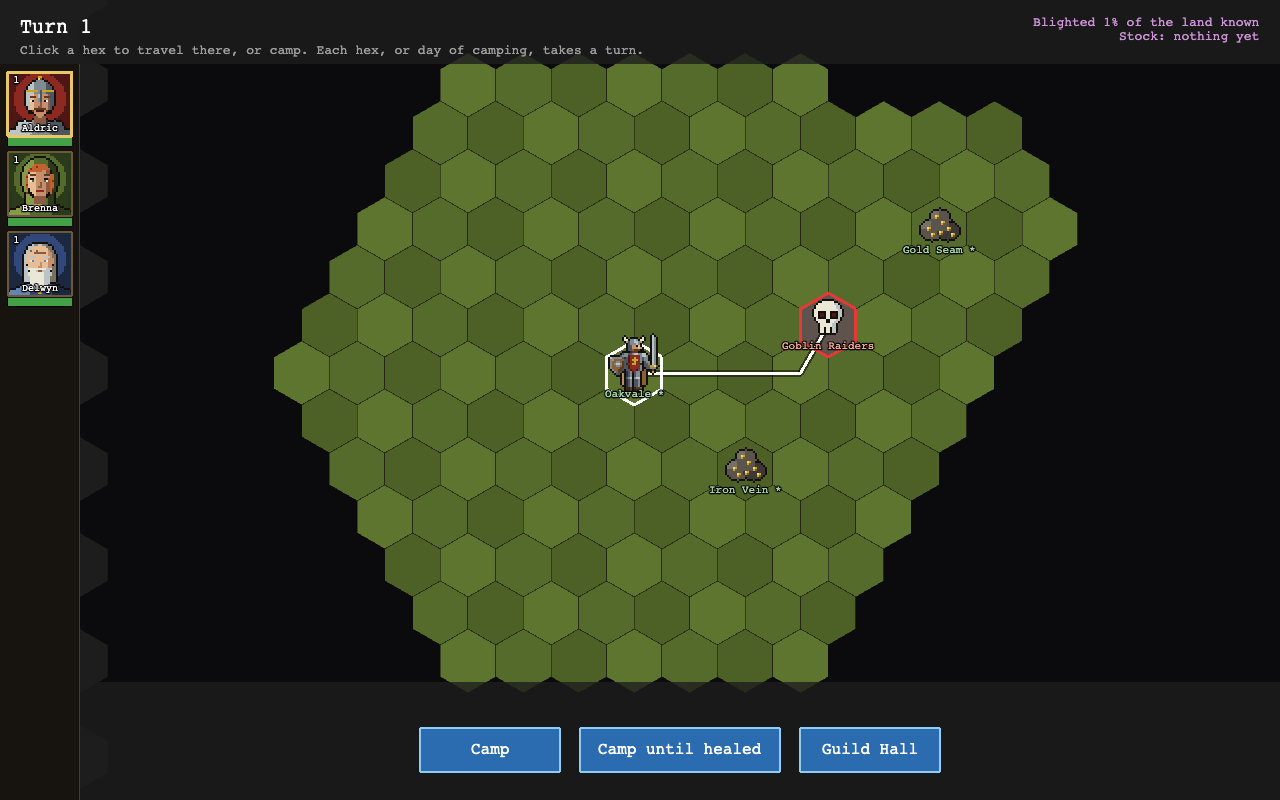
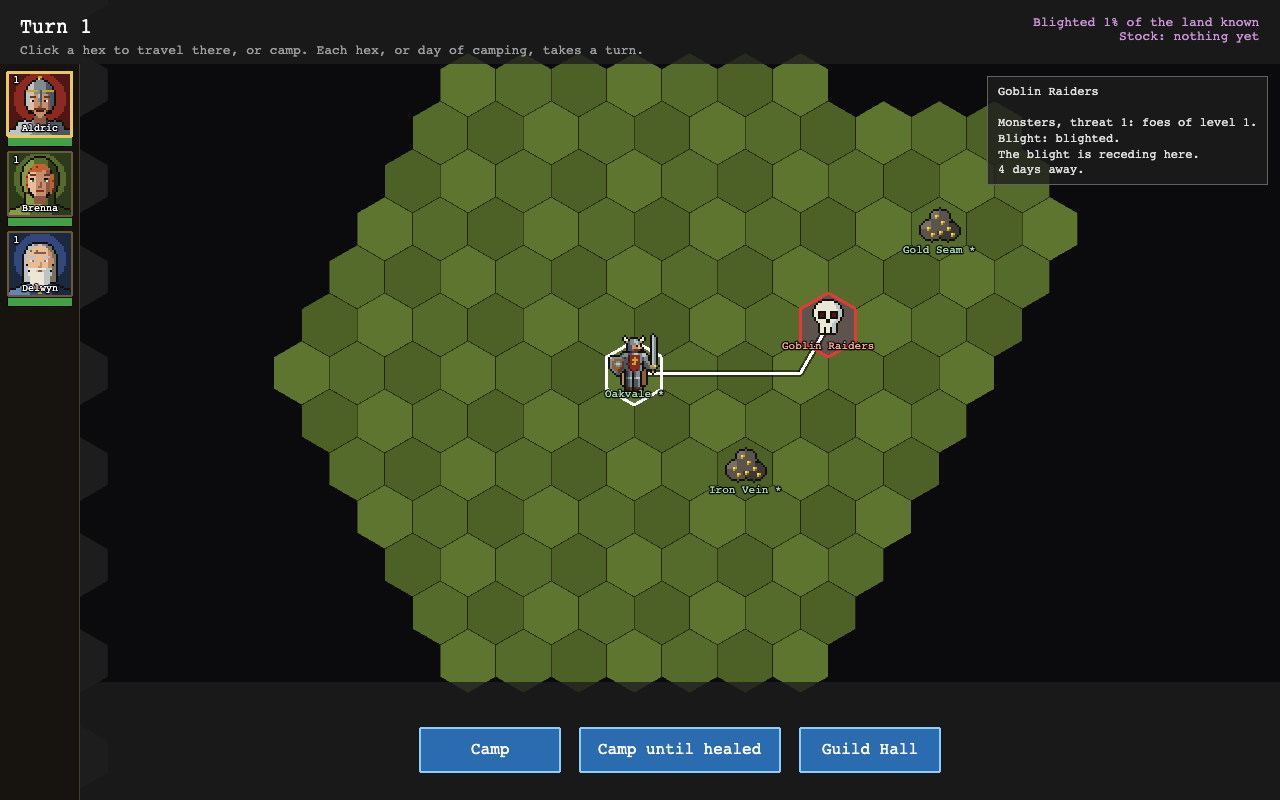
Show what is known of the hovered hex in an info panel on the world map

Changed region(s): [[0.75, 0.0938, 0.9375, 0.25], [0.9375, 0.125, 0.9688, 0.1562]]

diff --git a/src/scenes/WorldScene.ts b/src/scenes/WorldScene.ts
@@ -31,6 +31,7 @@ import { UnitFigure } from './UnitFigure.ts'
 import { gearLayers, SPRITE_ATLAS, spriteAnim, spriteFrame } from './unitLook.ts'
 import { HEADER_BOTTOM, PARTY_PANEL_W, portraitClick } from './partyPanel.ts'
 import { describeWorldEvent, describeWorldEvents } from './worldEvents.ts'
+import { hexInfo } from './hexInfo.ts'
 
 interface WorldData {
   game?: GameState
@@ -94,6 +95,10 @@ const BUTTON_H = 44
 const BUTTON_GAP = 20
 /** Wide enough for "Camp until healed", "Build Watchtower" and "Build Outpost". */
 const WIDE_BUTTON_W = 200
+/** The info panel on the hovered hex, at the view's top right. */
+const INFO_W = 280
+const INFO_PAD = 10
+const INFO_MARGIN = 12
 
 export class WorldScene extends Phaser.Scene {
   private gameState!: GameState
@@ -131,6 +136,9 @@ export class WorldScene extends Phaser.Scene {
   private outpostButton!: Phaser.GameObjects.Container
   /** Shown at Oakvale, beside the camp buttons: opens the guild hall. */
   private hallButton!: Phaser.GameObjects.Container
+  /** What the player knows of the hovered hex (`hexInfo`), hidden while no hex is hovered. */
+  private infoBox!: Phaser.GameObjects.Rectangle
+  private infoText!: Phaser.GameObjects.Text
 
   /**
    * The blight's tint and the front line, drawn in
@@ -207,6 +215,14 @@ export class WorldScene extends Phaser.Scene {
     this.messageText = this.add
       .text(0, 0, '', { fontFamily: 'monospace', fontSize: '15px', color: '#cfd8dc' })
       .setOrigin(0.5)
+    this.infoBox = this.add.rectangle(0, 0, INFO_W, 0, BAR_COLOR, BAR_ALPHA).setOrigin(0).setStrokeStyle(1, 0x616161)
+    this.infoText = this.add.text(0, 0, '', {
+      fontFamily: 'monospace',
+      fontSize: '12px',
+      color: '#e0e0e0',
+      lineSpacing: 3,
+      wordWrap: { width: INFO_W - 2 * INFO_PAD },
+    })
 
     this.buttons = [
       this.createButton('Scout', () => this.onLinger('scout')),
@@ -292,6 +308,7 @@ export class WorldScene extends Phaser.Scene {
       message: this.messageText.text,
       outcome: this.outcomeText.visible ? this.outcomeText.text : '',
       visible: [...this.visible].sort((a, b) => a - b),
+      info: this.infoText.visible ? this.infoText.text : '',
       buttons: {
         scout,
         wait,
@@ -522,6 +539,8 @@ export class WorldScene extends Phaser.Scene {
     const messageY = buttonY - BUTTON_H / 2 - 26
     this.messageText.setPosition(centreX, messageY)
     this.statusText.setPosition(width - 20, 16)
+    this.infoBox.setPosition(width - INFO_MARGIN - INFO_W, HEADER_BOTTOM + INFO_MARGIN)
+    this.infoText.setPosition(this.infoBox.x + INFO_PAD, this.infoBox.y + INFO_PAD)
     this.outcomeShade.setSize(width, height)
     const middleY = height / 2
     this.outcomeText.setPosition(centreX, middleY - 40)
@@ -624,8 +643,9 @@ export class WorldScene extends Phaser.Scene {
     if (!same) this.refreshHover()
   }
 
-  /** Draws the route a click on the hovered hex would walk, red-ringed where it ends among monsters. */
+  /** Draws the route a click on the hovered hex would walk, red-ringed where it ends among monsters, and tells of the hex. */
   private refreshHover(): void {
+    this.refreshInfo()
     const g = this.hoverMarks.clear()
     const route = this.hovered && !this.walking ? routeTo(this.world, this.hovered) : null
     if (!route) {
@@ -645,6 +665,17 @@ export class WorldScene extends Phaser.Scene {
     g.lineStyle(7, ROUTE_EDGE, 0.5).strokePoints(points, false)
     g.lineStyle(3, ROUTE_COLOR, 1).strokePoints(points, false)
     g.lineStyle(3, toMonsters ? MONSTERS_OUTLINE : ROUTE_COLOR, 1).strokePoints(this.hexPolygon(to), true)
+  }
+
+  /** The info panel: what the player knows of the hovered hex. */
+  private refreshInfo(): void {
+    const shown = this.hovered !== null && !this.outcomeShade.visible
+    this.infoBox.setVisible(shown)
+    this.infoText.setVisible(shown)
+    if (!this.hovered || !shown) return
+    const { title, lines } = hexInfo(this.world, this.gameState.party, this.visible, this.hovered)
+    this.infoText.setText([title, '', ...lines].join('\n'))
+    this.infoBox.setSize(INFO_W, this.infoText.height + 2 * INFO_PAD)
   }
 
   // ---- actions ---------------------------------------------------------------

diff --git a/src/scenes/hexInfo.ts b/src/scenes/hexInfo.ts
@@ -1,0 +1,78 @@
+import { maxHp, type Character } from '../character/character.ts'
+import { BLIGHT_NAMES, boardIndex, netInfluence } from '../game/blight.ts'
+import { MAX_SHRINE_LEVEL } from '../game/buildings.ts'
+import { MAX_GUILD_HALL_LEVEL } from '../game/guildHall.ts'
+import { daysToFall, siteYield } from '../game/territory.ts'
+import { UNEXPLORED } from '../game/vision.ts'
+import { ENCAMPMENT_ID, locationAt, routeTo, type WorldState } from '../game/worldMap.ts'
+import { hexEquals, type Hex } from '../grid/hex.ts'
+
+/** What the world map's info panel says of a hex: a title and the lines under it. */
+export interface HexInfo {
+  title: string
+  lines: string[]
+}
+
+/**
+ * What the player knows of the hex under the pointer, for the world map's
+ * info panel: what stands there, its blight as last seen (and, in sight,
+ * whether the blight is gaining on it), the party if it is there, and how
+ * many days' walk it is. Tells nothing the fog hides: a monster location only
+ * once sighted, a town or resource only once its land is explored.
+ */
+export function hexInfo(world: WorldState, party: readonly Character[], visible: ReadonlySet<number>, at: Hex): HexInfo {
+  const i = boardIndex(world.board, at)
+  const seen = world.seen[i]
+  const inSight = visible.has(i)
+  const lines: string[] = []
+  let title = seen === UNEXPLORED ? 'Unexplored' : 'Open land'
+
+  const location = locationAt(world, at)
+  const known = location && (location.kind === 'monsters' ? world.sighted.includes(location.id) : seen !== UNEXPLORED)
+  const tower = world.towers.find((t) => hexEquals(t.position, at))
+  if (location && known) {
+    title = location.name
+    if (location.kind === 'monsters') {
+      if (location.source) lines.push('The Source of the blight: beat it to win.')
+      lines.push(`Monsters, threat ${location.threat}: foes of level ${location.threat}.`)
+    } else {
+      const held = world.held.includes(location.id)
+      lines.push(`${location.id === ENCAMPMENT_ID ? 'Your encampment' : location.kind === 'town' ? 'Town' : 'Resource'}, ${held ? 'held' : 'not held'}.`)
+      if (location.id === ENCAMPMENT_ID) {
+        lines.push(`Guild hall level ${world.guildHall}/${MAX_GUILD_HALL_LEVEL}, shrine ${world.shrine}/${MAX_SHRINE_LEVEL}.`)
+      } else {
+        const { material, amount } = siteYield(world, location)
+        lines.push(`Yields ${amount} ${material}${held ? '' : ' once held'}${world.outposts.includes(location.id) ? ', with an outpost' : ''}.`)
+      }
+      if (held && world.threatened.includes(location.id)) lines.push(fallsIn(world, party, location.position))
+    }
+  } else if (tower) {
+    title = 'Watchtower'
+    if (world.threatened.includes(tower.id)) lines.push(fallsIn(world, party, tower.position))
+  }
+
+  if (seen !== UNEXPLORED) {
+    lines.push(`Blight: ${BLIGHT_NAMES[seen]}${inSight ? '' : ' (as last seen)'}.`)
+    if (inSight) {
+      const net = netInfluence(world, party, at)
+      if (net > 0) lines.push('The blight is gaining here.')
+      else if (net < 0 && seen > 0) lines.push('The blight is receding here.')
+    } else {
+      lines.push('Out of sight.')
+    }
+  }
+
+  if (hexEquals(at, world.party)) {
+    lines.push('Your party:')
+    for (const member of party) lines.push(`  ${member.name}, level ${member.level}, ${member.hp}/${maxHp(member)} hp`)
+  } else {
+    const route = routeTo(world, at)
+    if (route) lines.push(`${route.length} ${route.length === 1 ? 'day' : 'days'} away.`)
+  }
+  return { title, lines }
+}
+
+function fallsIn(world: WorldState, party: readonly Character[], at: Hex): string {
+  const days = daysToFall(world, party, { position: at })
+  return days === null ? 'Under threat.' : `Under threat: falls in ${days} ${days === 1 ? 'day' : 'days'}.`
+}

diff --git a/src/scenes/hexInfo.test.ts b/src/scenes/hexInfo.test.ts
@@ -1,0 +1,56 @@
+import { describe, expect, it } from 'vitest'
+import { boardHex, boardIndex } from '../game/blight.ts'
+import { readyMadeParty } from '../game/party.ts'
+import { UNEXPLORED, visibleHexes } from '../game/vision.ts'
+import { ENCAMPMENT_ID, newWorld, type WorldState } from '../game/worldMap.ts'
+import type { Hex } from '../grid/hex.ts'
+import { hexInfo } from './hexInfo.ts'
+
+const party = readyMadeParty()
+
+function info(world: WorldState, at: Hex = world.party) {
+  return hexInfo(world, party, visibleHexes(world), at)
+}
+
+describe('hexInfo', () => {
+  it('tells of the encampment, the party standing there and its blight', () => {
+    const world = newWorld(1)
+    const oakvale = world.locations.find((l) => l.id === ENCAMPMENT_ID)!
+    world.party = oakvale.position
+    const { title, lines } = info(world)
+    expect(title).toBe(oakvale.name)
+    expect(lines).toContain('Your encampment, held.')
+    expect(lines).toContain('Blight: clean.')
+    expect(lines).toContain('Your party:')
+    expect(lines.some((line) => line.includes(party[0].name))).toBe(true)
+  })
+
+  it('says nothing of a hex never explored but how far it is', () => {
+    const world = newWorld(1)
+    const at = boardHex(world.board, world.seen.indexOf(UNEXPLORED))
+    const { title, lines } = info(world, at)
+    expect(title).toBe('Unexplored')
+    expect(lines).toHaveLength(1)
+    expect(lines[0]).toMatch(/^\d+ days away\.$/)
+  })
+
+  it('hides monsters not yet sighted and names them once they are', () => {
+    const world = newWorld(1)
+    const monsters = world.locations.find((l) => l.kind === 'monsters' && !world.sighted.includes(l.id))!
+    world.seen[boardIndex(world.board, monsters.position)] = 2
+    expect(info(world, monsters.position).title).toBe('Open land')
+    world.sighted.push(monsters.id)
+    const { title, lines } = info(world, monsters.position)
+    expect(title).toBe(monsters.name)
+    expect(lines.some((line) => line.startsWith('Monsters, threat'))).toBe(true)
+  })
+
+  it('tells the blight out of sight as last seen', () => {
+    const world = newWorld(1)
+    const at = boardHex(world.board, world.seen.indexOf(UNEXPLORED))
+    world.seen[boardIndex(world.board, at)] = 2
+    const { lines } = hexInfo(world, party, new Set(), at)
+    expect(lines).toContain('Blight: blighted (as last seen).')
+    expect(lines).toContain('Out of sight.')
+  })
+})

diff --git a/e2e/world.test.ts b/e2e/world.test.ts
@@ -33,6 +33,19 @@ describe('the world map', () => {
     expect(south.world.seen[index(9, 28)]).toBeGreaterThanOrEqual(0)
   })
 
+  it('tells of the hovered hex in the info panel', async () => {
+    const game = await games.open()
+    const start = await game.newGame()
+    await game.hover(worldHexOnScreen(start, start.world.party))
+    const here = await game.waitFor('World', (w) => w.info !== '')
+    expect(here.info).toContain('Your party:')
+    await game.hover(worldHexOnScreen(start, RAIDERS.position))
+    const raiders = await game.waitFor('World', (w) => w.info.startsWith('Goblin Raiders'))
+    expect(raiders.info).toContain('threat 1')
+    await game.hover({ x: 0, y: 0 })
+    await game.waitFor('World', (w) => w.info === '')
+  })
+
   it('holds the party among monsters until it answers them', async () => {
     const game = await games.open()
     await game.newGame()

diff --git a/src/testHook.ts b/src/testHook.ts
@@ -118,6 +118,8 @@ export interface WorldProbe {
   outcome: string
   /** The hexes in sight, by `boardIndex`, in order; what the player remembers of the rest is `world.seen`. */
   visible: number[]
+  /** The info panel's words on the hovered hex, or '' while no hex is hovered. */
+  info: string
   /**
    * Scout, Wait and Attack show among monsters, the camp buttons elsewhere; `campUntilHealed` is enabled while someone is wounded.
    * `end` and `endless` show on the victory screen, `menu` on the defeat screen.

diff --git a/CLAUDE.md b/CLAUDE.md
@@ -99,13 +99,13 @@ Rules of progression: winning a battle earns the experience its foes are worth t
 
 ### Scene layer (`src/scenes/`)
 
-Scenes are `Boot` → `Menu` → `Party` ⇄ `Creation` → `World` ⇄ `Battle`, with `GuildHall` (⇄ `Creation`) over `World`. New on the menu starts `Party`, which asks whether to take the ready-made party (shown under its button as portraits and names, a hover telling what a member comes to) or to create one's own and then shows the roster: a row for each place up to the party limit, where a member is edited or removed and an empty place leads to `Creation` or to the prerolls, a row of faces where a click adds that character (one already in the party is greyed out, as names must be unique). `Party` holds the party as drafts and passes them to `Creation` and back as scene data (`{ drafts, index? }`, `index` being the member to edit); Begin makes the characters and a `GameState` of them in the first empty save slot, asking which to overwrite when all three are full, and starts `World`. `Creation` walks four steps (attributes, skills, perks, name and portrait) over one draft, the perks step switching between the perk tree and the spell tree, every control calling a function of `creation.ts`; a plus or minus held down repeats as a held key does, the hold being the scene's, since each change redraws the button. The menu's Continue resumes the game paused under it, or with none loads the slot written last; Load lists the three slots and starts `World`, or `Battle` with the saved battle (`saved` in its scene data), for the one picked; Manual lays the player's manual over the page as HTML (`manualOverlay.ts`, loaded only then, rendered from `docs/manual/README.md` by `manualHtml.ts` with `marked`), taking every key until its Back to game link or Esc closes it, so the game under the menu is left as it was. `GuildHall` is an overlay over the paused map, opened by the footer's Guild Hall button at Oakvale: the party and the reserves as faces (a click picks one, a click on one of the other row swaps the two, or To reserves and To party move it), the hall's upgrade and the shrine's side by side, and Recruit, which offers the pre-rolls not in the company or Create new, which starts `Creation` with `returnTo: 'GuildHall'` and the game (the company's names are taken), and `Creation` starts `GuildHall` again with its draft to recruit, or none on Cancel. Close starts `World` again, as the party under its column may have changed. Among monsters the world map's footer offers Scout, Wait and Attack, and anywhere else Camp and Camp until healed, with Build Watchtower where the land would take one and Build Outpost on a held site without one (a click without the stock says what it costs). The world map draws the land as the player knows it (`seen`): black where never explored, and elsewhere the blight as a tint a level over the grass, a growth on corrupted land (`map_blight`, one animated sprite a hex) and a faint line along clean land's edge, under a veil where out of sight, rendered into a texture whenever that changes; a location shows once known (a monster location sighted, a town or resource explored), faded out of sight, and the header's blighted share is of the land explored; a held site's name is starred and green, with "outpost" under it where one stands, and a threatened one's orange with the days until it falls. When the game is won or lost a screen covers the map: End (to `Menu`, the save kept) and Continue (endless) after a victory, Main Menu after the encampment falls. Attacking a monster location starts `Battle` with that location's id; a victory clears the location and returns to `World`, and a defeat deletes the game's slot and goes back to `Menu`. `Inventory` is the character panel, an overlay showing one party member at a time in four tabs (Character, Skills, Spells, Inventory): over `Battle` (C, S, B, I), where gear can be changed for an action point but skill points, perks and spells are only shown, and over `World` (C), where all can be spent and gear is changed freely, through the baggage. The Skills tab lists only the perks a character has taken, spells aside; its Perk Tree button (or P) swaps the panel's content for the perk tree, a view with no tab button of its own, where a click on an open perk takes it and Esc steps back to the Skills tab. The Spells tab lists the spells known and the mana carried, and its Spell Tree button (or K) opens the spell tree the same way; on the world map a heal's Cast button casts it (`castOnWorldMap`), a heal of one asking for a portrait to be clicked (`worldCast`). It is handed the whole party (`PanelMember`s: each character, and in battle what its gear may do) and the member to open on, and when it closes it tells the scene under it which member it last showed, as the data of the resume.
+Scenes are `Boot` → `Menu` → `Party` ⇄ `Creation` → `World` ⇄ `Battle`, with `GuildHall` (⇄ `Creation`) over `World`. New on the menu starts `Party`, which asks whether to take the ready-made party (shown under its button as portraits and names, a hover telling what a member comes to) or to create one's own and then shows the roster: a row for each place up to the party limit, where a member is edited or removed and an empty place leads to `Creation` or to the prerolls, a row of faces where a click adds that character (one already in the party is greyed out, as names must be unique). `Party` holds the party as drafts and passes them to `Creation` and back as scene data (`{ drafts, index? }`, `index` being the member to edit); Begin makes the characters and a `GameState` of them in the first empty save slot, asking which to overwrite when all three are full, and starts `World`. `Creation` walks four steps (attributes, skills, perks, name and portrait) over one draft, the perks step switching between the perk tree and the spell tree, every control calling a function of `creation.ts`; a plus or minus held down repeats as a held key does, the hold being the scene's, since each change redraws the button. The menu's Continue resumes the game paused under it, or with none loads the slot written last; Load lists the three slots and starts `World`, or `Battle` with the saved battle (`saved` in its scene data), for the one picked; Manual lays the player's manual over the page as HTML (`manualOverlay.ts`, loaded only then, rendered from `docs/manual/README.md` by `manualHtml.ts` with `marked`), taking every key until its Back to game link or Esc closes it, so the game under the menu is left as it was. `GuildHall` is an overlay over the paused map, opened by the footer's Guild Hall button at Oakvale: the party and the reserves as faces (a click picks one, a click on one of the other row swaps the two, or To reserves and To party move it), the hall's upgrade and the shrine's side by side, and Recruit, which offers the pre-rolls not in the company or Create new, which starts `Creation` with `returnTo: 'GuildHall'` and the game (the company's names are taken), and `Creation` starts `GuildHall` again with its draft to recruit, or none on Cancel. Close starts `World` again, as the party under its column may have changed. Among monsters the world map's footer offers Scout, Wait and Attack, and anywhere else Camp and Camp until healed, with Build Watchtower where the land would take one and Build Outpost on a held site without one (a click without the stock says what it costs). The world map draws the land as the player knows it (`seen`): black where never explored, and elsewhere the blight as a tint a level over the grass, a growth on corrupted land (`map_blight`, one animated sprite a hex) and a faint line along clean land's edge, under a veil where out of sight, rendered into a texture whenever that changes; a location shows once known (a monster location sighted, a town or resource explored), faded out of sight, and the header's blighted share is of the land explored; a held site's name is starred and green, with "outpost" under it where one stands, and a threatened one's orange with the days until it falls; hovering a hex shows the route a click would walk and, at the view's top right, an info panel on the hex (`hexInfo.ts`). When the game is won or lost a screen covers the map: End (to `Menu`, the save kept) and Continue (endless) after a victory, Main Menu after the encampment falls. Attacking a monster location starts `Battle` with that location's id; a victory clears the location and returns to `World`, and a defeat deletes the game's slot and goes back to `Menu`. `Inventory` is the character panel, an overlay showing one party member at a time in four tabs (Character, Skills, Spells, Inventory): over `Battle` (C, S, B, I), where gear can be changed for an action point but skill points, perks and spells are only shown, and over `World` (C), where all can be spent and gear is changed freely, through the baggage. The Skills tab lists only the perks a character has taken, spells aside; its Perk Tree button (or P) swaps the panel's content for the perk tree, a view with no tab button of its own, where a click on an open perk takes it and Esc steps back to the Skills tab. The Spells tab lists the spells known and the mana carried, and its Spell Tree button (or K) opens the spell tree the same way; on the world map a heal's Cast button casts it (`castOnWorldMap`), a heal of one asking for a portrait to be clicked (`worldCast`). It is handed the whole party (`PanelMember`s: each character, and in battle what its gear may do) and the member to open on, and when it closes it tells the scene under it which member it last showed, as the data of the resume.
 
 The party's portraits run down the left of `World`, `Battle` and `Inventory` alike (`PartyColumn`, placed by `partyPanel.ts`), so they seem to stay put under the panel. One member is the active one, marked in gold: in battle the selected unit, on the world map only the member a panel opens for. A click on a portrait makes its member active and a click on the active member's opens its panel (`portraitClick`); in battle a member that cannot be selected (spent, fallen, or during the enemy's turn) has its panel opened at once. A click on a portrait beside the open panel turns the panel to that member. `Menu` is an overlay over `World` or `Battle` (Esc). Both are told which scene to resume by their `resume` scene data; overlays pause the scene under them and resume it on close.
 
 `BattleScene` is a view over the engine: it turns clicks into `Action`s, calls `engine.step`, and plays back the returned events. It must not decide outcomes. Every battle is seeded, by the page's address or else at random, the enemy's RNG with the seed plus one, so that any battle can be saved and replayed from its log. A click on a foe always means a weapon attack; a spell is cast with the Cast button (M), shown for a unit with magic, which opens a list of its spells (`spellMenu.ts`), each greyed when it cannot be cast now and picked by a click or its number; the spell then asks for its target even when there is only one (`targeting` holds what the next board click picks a target for), and hovering an area's centre outlines the area and shows the odds on every unit it would touch, allies included. Nameplates show each unit's statuses as coloured letters beside the hit point bar. Scenes use Phaser's `RESIZE` scale mode, so each one positions everything in a `layout()` method that reruns on resize; the game is held at a minimum of 840×560 (`MIN_GAME_SIZE` in `src/main.ts`), below which the page scrolls. `World` and `Battle` lay their map, board, log and buttons out to the right of the party's column (`PARTY_PANEL_W`).
 
-Scene logic that can be expressed without Phaser is pulled into sibling helper modules, and new logic should follow suit: `eventSchedule.ts` (timing of event playback), `boardGeometry.ts` (hex ↔ screen, for a `BoardLayout`: the battlefield's is squashed to look like a floor, the world map's is flat with smaller hexes), `attackPlan.ts` (what clicking a foe does), `scrollingLog.ts`, `slotScroll.ts` (which rows of the ground pile the inventory shows), `mapScroll.ts` (where the world map sits on screen for the party to be in view), `partyPanel.ts` (where the party's portraits sit and what a click on one does), `draftInfo.ts` (the lines a hover shows of a draft), `worldEvents.ts` (the world map's words for what a turn brought), `perkTree.ts` (where the nodes of the perk tree and the spell tree sit, built from the perks' own `branch`, `requires` and `school`, and how each stands for a character or, in creation, for a draft), `spellMenu.ts` (the battle's spell list and the words of aiming a spell), `clicks.ts` (what counts as a right-click), `sounds.ts` (which sounds an event triggers), `audioSettings.ts` (volume levels, saved to `localStorage`), `cursors.ts` (the pointer cursors, as inline SVG), `seed.ts` (the seed in the page's address), `unitLook.ts` (the names of the sprite atlas's frames and animations, and which sprites are laid over a hero's body for what it holds). Four helpers do import Phaser, each the game objects of something several scenes draw, with no logic of its own: `PartyColumn.ts` (the party's column, shared by the three scenes that show it), `UnitFigure.ts` (a unit's body with what it holds drawn over it, animated as one: the battle's units, the world map's party and the character panel's doll), `PerkTreeView.ts` (a tree's nodes, lines and strip, the perk tree's or the spell tree's, a spell's node edged in its school's colour, drawn by the character panel and by creation, each of which says what a click on a node does) and `panelButton.ts` (the framed button of the party screen and creation).
+Scene logic that can be expressed without Phaser is pulled into sibling helper modules, and new logic should follow suit: `eventSchedule.ts` (timing of event playback), `boardGeometry.ts` (hex ↔ screen, for a `BoardLayout`: the battlefield's is squashed to look like a floor, the world map's is flat with smaller hexes), `attackPlan.ts` (what clicking a foe does), `scrollingLog.ts`, `slotScroll.ts` (which rows of the ground pile the inventory shows), `mapScroll.ts` (where the world map sits on screen for the party to be in view), `partyPanel.ts` (where the party's portraits sit and what a click on one does), `draftInfo.ts` (the lines a hover shows of a draft), `worldEvents.ts` (the world map's words for what a turn brought), `hexInfo.ts` (what the world map's info panel tells of the hovered hex, only what the fog lets the player know), `perkTree.ts` (where the nodes of the perk tree and the spell tree sit, built from the perks' own `branch`, `requires` and `school`, and how each stands for a character or, in creation, for a draft), `spellMenu.ts` (the battle's spell list and the words of aiming a spell), `clicks.ts` (what counts as a right-click), `sounds.ts` (which sounds an event triggers), `audioSettings.ts` (volume levels, saved to `localStorage`), `cursors.ts` (the pointer cursors, as inline SVG), `seed.ts` (the seed in the page's address), `unitLook.ts` (the names of the sprite atlas's frames and animations, and which sprites are laid over a hero's body for what it holds). Four helpers do import Phaser, each the game objects of something several scenes draw, with no logic of its own: `PartyColumn.ts` (the party's column, shared by the three scenes that show it), `UnitFigure.ts` (a unit's body with what it holds drawn over it, animated as one: the battle's units, the world map's party and the character panel's doll), `PerkTreeView.ts` (a tree's nodes, lines and strip, the perk tree's or the spell tree's, a spell's node edged in its school's colour, drawn by the character panel and by creation, each of which says what a click on a node does) and `panelButton.ts` (the framed button of the party screen and creation).
 
 A scene that redraws itself after a change (`Inventory`, `Party`, `Creation`) does so on the next tick, as the redraw destroys the button whose click handler asked for it, and its new buttons take clicks only from the frame after.
 

diff --git a/docs/manual/README.md b/docs/manual/README.md
@@ -120,7 +120,7 @@ The world map is a large board of hexes, many screens wide, and the view scrolls
 
 ### Travel
 
-Click a hex to travel there. Hovering over a hex first shows the route. The party walks one hex per turn and stops early if something important happens on the way, such as monsters coming into view, a site you hold falling under threat, or monsters standing in the road. Routes avoid known monster lairs unless the lair is where you are going.
+Click a hex to travel there. Hovering over a hex first shows the route, and a panel at the top right tells what you know of it: what stands there, its blight (as you last saw it, if it is out of sight), whether the blight is gaining or receding there, how many days away it is, and your heroes' levels and hit points on the party's own hex. The party walks one hex per turn and stops early if something important happens on the way, such as monsters coming into view, a site you hold falling under threat, or monsters standing in the road. Routes avoid known monster lairs unless the lair is where you are going.
 
 ### Fog of war
 
